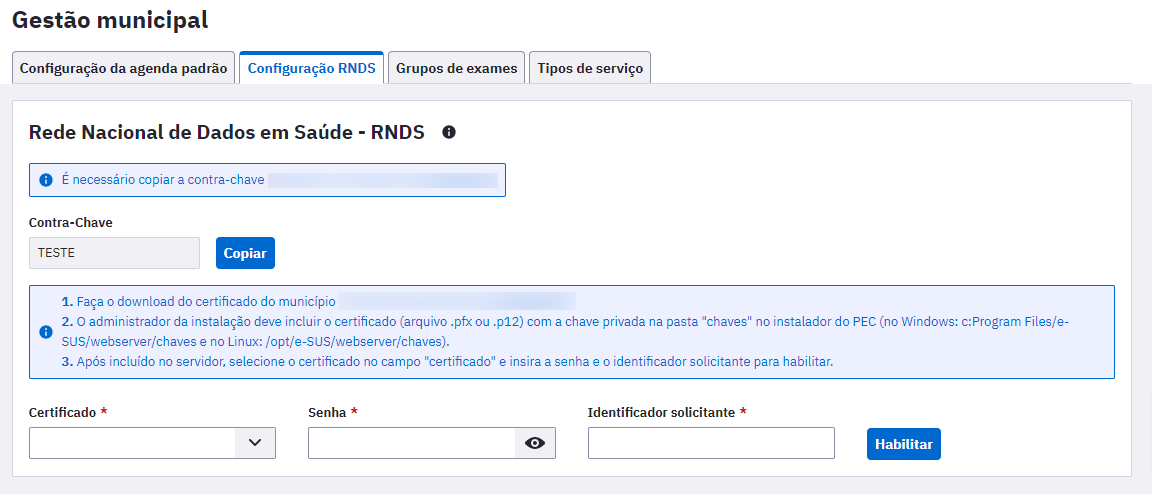
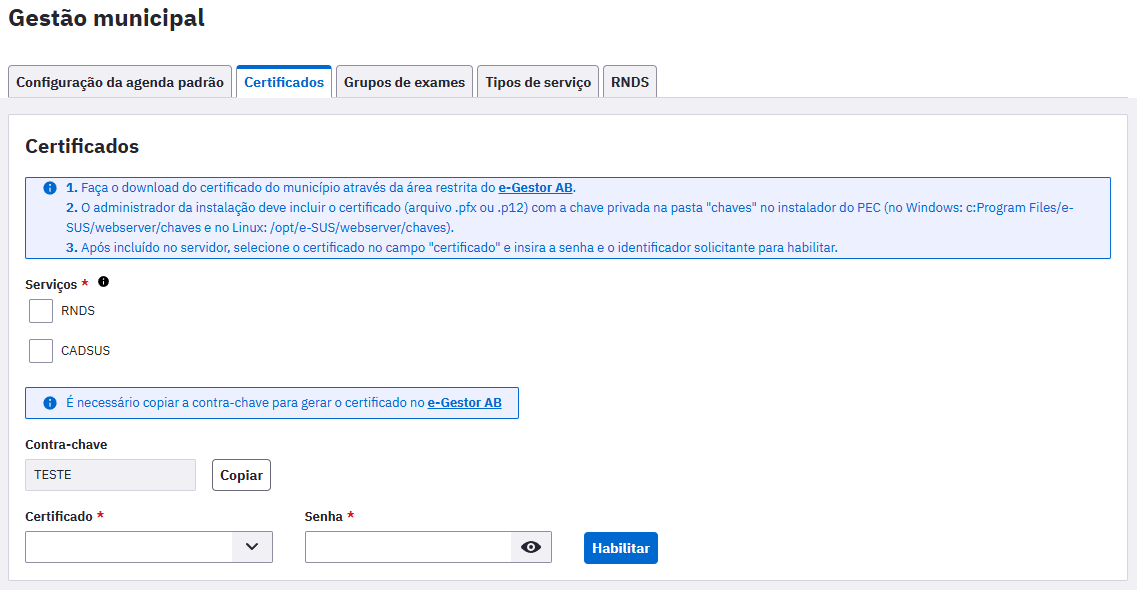
aba certificados

diff --git a/docs/PEC/PEC_03_adm_conf.md b/docs/PEC/PEC_03_adm_conf.md
@@ -1580,9 +1580,9 @@ Para adicionar, clique em "Adicionar tipo de serviço", informe o nome do tipo d
 
 Para editar, clique em ![](media/pec_image228.png). Para excluir um tipo de serviço, cliquem em ![](media/pec_image229.png).
 
-### 3.11.4 Configuração RNDS
+### 3.11.4 Certificados
 
-A partir da versão 4.2, esta funcionalidade foi implementada no sistema e-SUS APS com PEC com a finalidade de acessar a Rede Nacional de Dados em Saúde (RNDS), que é a plataforma que integrará os dados de saúde no país. Na prática, quando o **administrador municipal** habilita essa funcionalidade, o profissional de saúde da APS consegue acessar o site *ConectSUS Profissional*, por meio do PEC, para visualizar os dados de saúde oriundos de outros pontos de atenção à saúde onde o cidadão já foi atendido.
+Esta funcionalidade foi implementada no sistema PEC e-SUS APS com a finalidade de habilitar o certificado digital, gerado atualmente via **e-Gestor APS**, sistema **Implantação e-SUS APS**.
 
 Figura 3.11.4 - Tela de Configuração RNDS
 
@@ -1590,209 +1590,29 @@ Figura 3.11.4 - Tela de Configuração RNDS
 
 Fonte: SAPS/MS
 
-A funcionalidade apresenta a "Contra-Chave" da instalação do sistema e-SUS APS PEC para ser copiada; os campos para a inclusão do "Certificado"; "Senha" e "Identificador solicitante".
+{: .dica }
+Para geração e habilitação do certificado digital no PEC e-SUS APS, além de mais informações sobre as funcionalidades do certificado, siga o manual completo disponibilizado na seção "Apoio à Implantação": [LINK](https://saps-ms.github.io/Manual-eSUS_APS/docs/Apoio%20a%20Implanta%C3%A7%C3%A3o/Certificado_eGestor/)
 
-## 3.12 Acessando a RNDS por meio do PEC
+O certificado digital habilitado permitirá:
 
-Esta seção visa orientar os gestores e técnicos responsáveis pela Estratégia e-SUS APS a habilitarem o PEC para acessar a RNDS.
+Opção "**RNDS**": 
+- Envio direto de registros de origem PEC à RNDS (vacinas, atendimentos, prescrição de medicamentos e atestados);
+- Habilitação do acesso ao **SUS Digital Profissional** ([mais informações](https://webatendimento.saude.gov.br/faq/susdigitalprofissional)) via prontuário do cidadão pelos profissionais médicos, enfermeiros e cirurgiões-dentistas.
 
-### 3.12.1 Municípios que NÃO possuem certificado digital A1
+Opção "**CADSUS**": 
 
-Quando o Município ou Distrito Federal que utilizam o PEC não possuir certificado digital do tipo A1, o **administrador municipal** da instalação PEC deverá seguir os seguintes passos:
-
-1º\) Acessar o ambiente restrito do portal [e-Gestor Atenção Básica](https://egestorab.saude.gov.br/paginas/login.xhtml/) com Login e Senha do **gestor municipal**;
-
-Figura 3.12.1 Ambiente Restrito do sistema e-Gestor AB
-
-![](media/pec_image885.png)
-
-Fonte: SAPS/MS
-
-2º\) Após o login no sistema e-Gestor AB, selecionar o sistema "TOKEN PARA IMPLANTAÇÃO e-SUS APS";
-
-Figura 3.12.2 - Tela de seleção de sistemas no e-Gestor AB
-
-![](media/pec_image886.png)
-
-Fonte: SAPS/MS
-
-3º\) Preencha o Formulário (Figura 3.12.3) com os dados do usuário responsável pela geração do token (CPF e Nome) e selecione o Estabelecimento de saúde onde o token será utilizado para autenticação, em seguida clique em "Gerar Token". Todos os tokens gerados serão exibidos na aba "Tokens gerados".
-
-Figura 3.12.3 - Formulário Gerador de Token no sistema e-Gestor AB
-
-![](media/pec_image887.png)
-
-Fonte: SAPS/MS
+Novas opções no módulo Cidadão:
+- Cadastrar cidadãos na base local por busca direta na base nacional do CADSUS, evitando retrabalho de digitação de informações e duplicações de cadastro;
+- Ao editar dados cadastrais de um cidadão no PEC e-SUS APS, edita-se também estes dados diretamente no CADSUS, como por exemplo, telefone de contato e endereço;
+- Gerar novo CNS válido diretamente pelo PEC e-SUS APS, como por exemplo para recém-nascidos, sem a necessidade de entrar no CADSUS para esta ação;
+- Durante a edição de um cadastro, será possível sincronizar o cadastro da base local com a base nacional do CADSUS para correção de dados digitados de maneira equivocada antes da integração com o login GOV.BR, como por exemplo, nome e data de nascimento.
 
 {: .atencao }
-[**ATENÇÃO**] A validade do token é até às 23:59h do dia de sua geração. Após esse período é automaticamente desativado, não sendo mais possível utilizá-lo.
-
-{: .nota }
-O responsável (CPF) por gerar o token no e-Gestor AB deverá ser o mesmo a realizar a solicitação de credenciamento no e-GESTOR AB.
-
-4º\) Após obter o **Token** copie a **Contra Chave** no sistema e-SUS APS com PEC no módulo "Gestão Municipal" na aba "Configuração RNDS, conforme a figura 3.11.4.
-
-5º\) De posse do **token** gerado no sistema e-Gestor AB e a **Contra Chave** copiada no sistema e-SUS APS com PEC, proceda na solicitação de credenciamento no e-GESTOR AB, para obter permissão de acesso a RNDS e APROVAÇÃO para produção. 
-
-6º\) Após realizar o credenciamento faça o download do certificado gerado.
-
-### 3.12.2 Municípios que POSSUEM certificado digital A1
-
-Os Municípios/Distrito Federal que possuam certificado digital A1 também deverão gerar o token no e-Gestor AB e copiar a Contra Chave do PEC para preehimento dos campos abaixo:
-
-![](media/pec_image1028.png)
-
-{: .atencao }
-[**ATENÇÃO**] Não carregue o 'certificado .cer'. O tipo de arquivo gerado não é compatível com o sistema.
-
-### 3.12.3 Realizando solicitação de credenciamento no e-GESTOR AB:
-
-Ao logar no e-GESTOR AB com o perfil de gestor municipal, selecione o programa Implantação e-SUS APS:
-
-![](media/pec_image1029.png)
-
-Na tela seguinte, serão exibidas informações diversas relativas as credenciais geradas, termo de uso, certificado disponível e solicitação de nova credencial, conforme pode ser visto na imgem abaixo:
-
-![](media/pec_image1030.png)
-
-Clicando em ![](media/pec_image1031.png) será solicitado ao integrador, informar o token e contra-chave para seguimento no processo de credenciamento:
-
-![](media/pec_image1028.png)
-
-Após validação dos dados na tela acima, será apresentado ao solicitante o formulário de credenciamento abaixo:
-
-![](media/pec_image1032.png)
-
-Na área de Certificado Digital, caso tenha um certificado próprio, importe-o conforme a extensão .CER ou .PFX. Caso não tenha um certificado próprio, clique em gerar certificado e cadaste uma senha:
-
-![](media/pec_image1033.png)
-
-Siga com o preenchimento dos dados do formulário, informando o telefone de contato e e-mail da gestão responsável.
-
-Em "Indique um estabelecimento filho", informe os estabelecimentos que ficarão vinculados ao CNES pai:
-
-![](media/pec_image1037.png)
-
-Depois indique os dados do gestor responsável:
-
-![](media/pec_image1038.png)
-
-E as informações do sistema solicitante:
-
-![](media/pec_image1039.png)
-
-Ao clicar em ![](media/pec_image1040.png) será exibida a tela de aceite dos termos de uso, conforme pode ser visto abaixo:
-
-![](media/pec_image1041.png)
-
-Ao clicar em "Confirmar e avançar", será realizada a conclusão de solicitação de credenciamento no e-GESTOR AB e o integrador estará formalmente apto para integração a RNDS via e-SUS APS PEC. 
-
-![](media/pec_image1042.png)
-
-Na tela de credenciais geradas, será possível ter acesso ao ID do solicitante e ao certificado que deverá ser informado no PEC, conforme item 3.12.4.
-
-![](media/pec_image1043.png)
-
-### 3.12.4 Configurando a instalação do PEC com a chave gerada no e-GESTOR AB:
-
-Nesta etapa é fundamental o papel do **administrador da instalação**.
-
-O **administrador da instalação** de posse do certificado (.pfx ou .p12) gerado no e-GESTOR AB pelo gestor municipal deverá **criar a pasta "chaves"** e incluir o arquivo (.pfx ou .p12) nesta pasta. A depender do sistema operacional o administrador da instalação deverá proceder da seguinte forma:
-
-* Se o sistema operacional for Windows - *C:\ProgramFiles\e-SUS\webserver\chaves*. Inclua o arquivo (.pfx ou .p12) na pasta "chaves". 
-
-Figura 3.12.4 Tela do Windows
-
-![](media/pec_image889.png)
-
-Fonte: Windows10/Microsoft
-
-* Se o sistema operacional for Linux - Acesse o repositório com o comando *cd/opt/e-SUS/webserver/*. Para criar a pasta "chaves" é utilizado o comando */opt/e-SUS/webserver$ sudo mkdir chaves*. Inclua o arquivo (.pfx ou .p12) na pasta "chaves". 
-
-Figura 3.12.5 Tela do Linux
-
-![](media/pec_image890.png)
-
-Fonte: Linux/Canonical
-
-### 3.12.5 Habilitando o PEC para o Acesso a RNDS
-
-Nesta etapa o **administrador municipal** acessa a instalação PEC com login e senha para habilitar o acesso do PEC à RNDS por meio do módulo "Gestão Municipal". Neste módulo, conforme a figura 3.11.4, na aba "Configuração RNDS", o **administrador municipal** selecionará o certificado - previamente inserido pelo *administrador da instalação* na pasta "chaves" da instalação PEC - informará a senha do certificado e o identificador do solicitante obtido no e-GESTOR AB, no momento em que a solicitação de credenciamento é homologada para o acesso a RNDS.
-
-Após a habilitação, na tela de atendimento do cidadão pelo *profissional de saúde* no PEC é apresentado o botão para acessar a RNDS conforme a figura 3.12.5
-
-Figura 3.12.5 - Tela de Atendimento do cidadão no PEC
-
-![](media/pec_image891.png)
-
-Fonte: SAPS/MS
-
-### 3.12.5 Desabilitando o PEC para o Acesso a RNDS
-
-Figura 3.12.8 - Configuração RNDS
-
-![](media/pec_image892.png)
-
-Fonte: SAPS/MS
-
-Após habilitado o acesso à RNDS, caso seja necessário desabilitá-lo, basta clicar no botão "Desabilitar", conforme a figura 3.12.8. Ao desabilitar o certificado digital o botão de acesso a RNDS na tela de atendimento do PEC (Figura 3.12.7) não será mais apresentado.
-
- **Relatório de erros retornados pela RNDS**
-
-A partir da versão 5.3 é possível gerar o relatório de erros de dados enviados à RNDS. 
-
-Para gerar o relatório, o gestor municial deverá selecionar na aba lateral ![](media/gestaomunicipal.png)
-Em seguida selecionar![](media/rnds.pngpng) e "gerar relatório de erro"
-
-Abrirá uma tela onde poderá selecionar o período desejado e gerar o relatório CSV.
-
-![](media/relatoriornds2.png)
-
-Deverá marcar todos ou os que desejar.
-
-O relatório gerado, terá as informações: data de envio, tipo de registro, ID do registro, Status do envio, erro retornado pela RND.
-
-![](media/relatoriornds3.png)
-
-
-## 3.13 Acessando ao CADSUS por meio do PEC
-
-Esta seção visa orientar os gestores e técnicos responsáveis pela Estratégia e-SUS APS a habilitarem consulta ao CADSUS dentro do PEC.
-
-A partir da versão 5.1.14 do e-SUS APS PEC, é necessário a habilitação de três principais fatores para que o CADSUS passe a funcionar em sua aplicação. 
-
- Estes procedimentos devem ser realizados para garantir a segurança na atualização das informações dos cidadãos delimitadas pelo Ministério da Saúde e DATASUS. Sendo assim, você precisará realizar a configuração dos tópicos:
-
-- Cadastramento de Certificado Digital de sistema fornecido pelo e-gestor AB;
-- Habilitação de certificado SSL/HTTPS no e-SUS APS PEC;
-- Habilitação do GOV.BR no e-SUS APS PEC;
-
-Passo 1  - Cadastramento do Certificado Digital:
-
-O primeiro procedimento necessário é a parametrização do Certificado Digital no e-SUS APS PEC, para isso, siga o passo a passo disponibilizado na seção 3.12.1 e 3.12.2.  Para este cenário, ao realizar a habilitação do Certificado Digital, você deverá selecionar tanto o habilitação da RNDS quanto para os processos de PIX e PDQ (consulta e alterações) no CADSUS.
-
-    Após a habilitação do Certificado através do e-Gestor, você precisará inserir o Certificado no e-SUS APS PEC. Neste caso, acesse com o perfil de Administrador Municipal, na aba de "Certificados" e selecione o módulo de CADSUS. Assim, você poderá selecionar tanto a RNDS quanto o CADSUS para habilita-los:
-
-Figura 3.13.1
-
-![](media/pec_image1044.png)
-SAPS/MS
-
-Passo 2  - Habilitação de certificado SSL/HTTPS no e-SUS APS PEC:
-
-A  habilitação do certificado SSL/HTTPS no PEC, deverá ser realizada seguindo as instruções da seção 3.1.1.3.5, dependendo do seu sistema operacional. 
-
-**ATENÇÃO** 
-Disponibilizamos também um vídeo com o passo a passo para a inclusão do certificado utilizando o sistema operacional Windows, com o objetivo de facilitar a compreensão no menu "Apoio a Implantação" no Manual e-SUS APS
-
-Passo 3 - Habilitação do GOV.BR no e-SUS APS PEC:
-Após concluída inserção do HTTPS/SSL, para habilitação do GOV.BR no seu PEC, você precisará seguir todo o passo a passo disponibilizado na seção 1.3.3 para Ativação do login via GOV.BR. 
-
-
-{: .atencao } Este é um procedimento determinado pelo DATASUS em prol da segurança na atualização dos dados no CADWEB. Todo o processo de segurança é necessário, visto que o PEC, além de realizar pesquisas no CADSUS, também realiza alterações.
-
-
-## 3.14 Importação do Bolsa Família
+A habilitação do certificado digital é apenas uma das etapas do processo de habilitação da sincronização do sistema com o CADSUS. Para completar todo o processo desta importante habilitação, será necessário na instalação do PEC e-SUS APS:
+- Habilitar o acesso ao sistema por endereço de domínio gov.br via protocolo HTTPS ([manual completo](https://saps-ms.github.io/Manual-eSUS_APS/docs/Apoio%20a%20Implanta%C3%A7%C3%A3o/HTTPS_Automatizado/))
+- Habilitar o login via conta gov.br no sistema ([manual completo](https://saps-ms.github.io/Manual-eSUS_APS/docs/Apoio%20a%20Implanta%C3%A7%C3%A3o/Login_GOV.BR/))
+
+## 3.12 Importação do Bolsa Família
 
 Para importar um arquivo com os beneficiários do bolsa família de uma vigência específica para que eles sejam identificados em seus prontuários, o profissional deverá acessar o e-GESTOR APS. 
 
